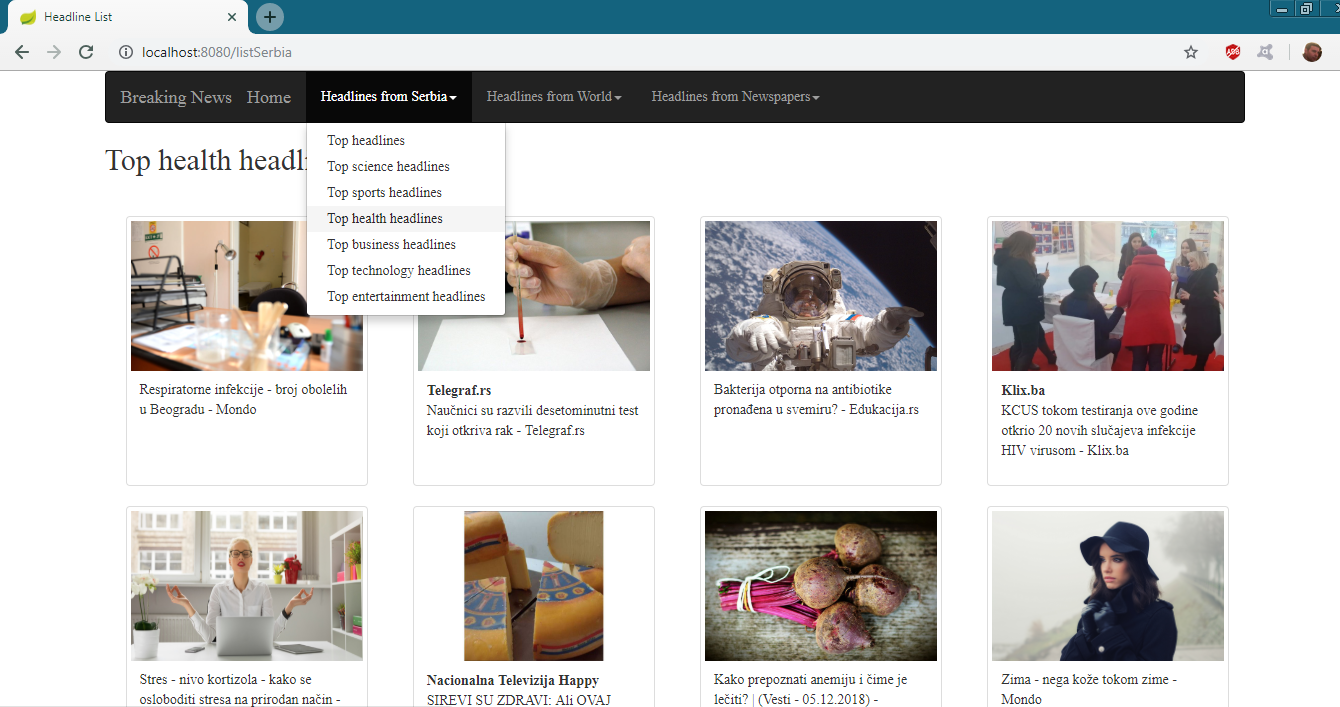
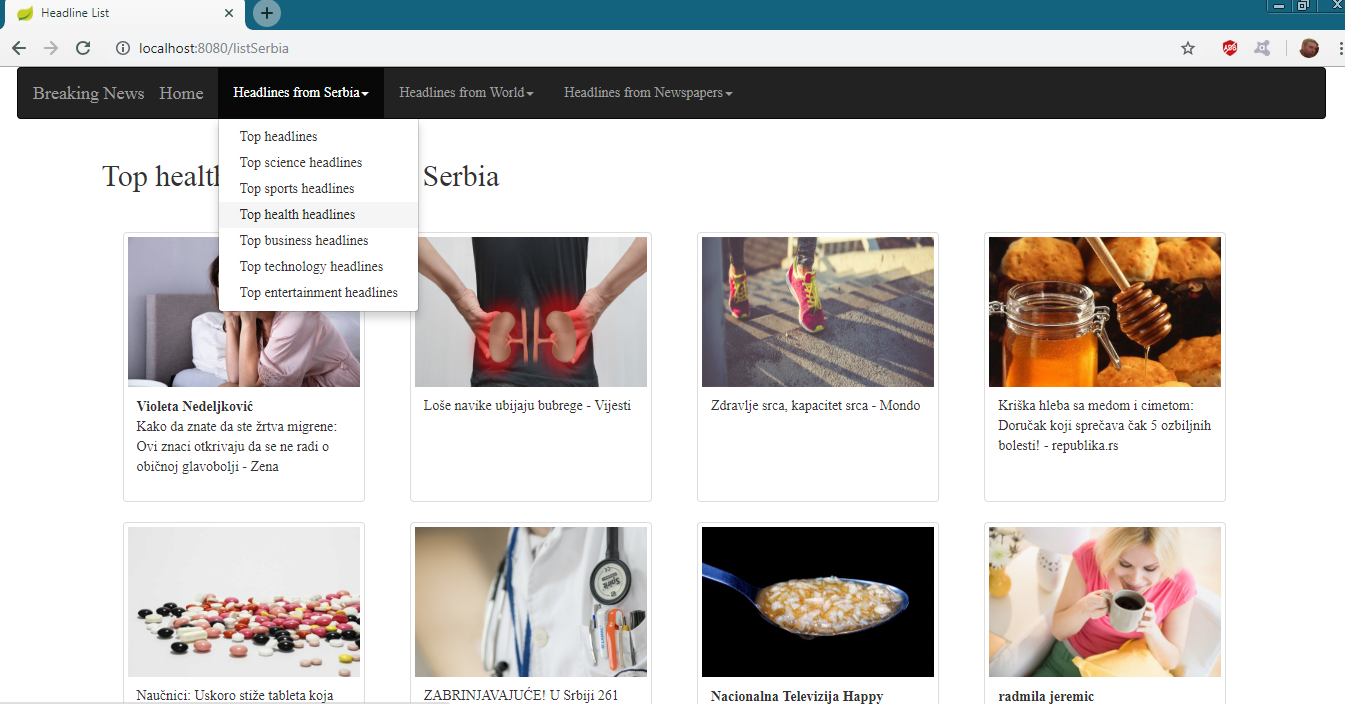
add service

diff --git a/src/main/resources/templates/headline_list.html b/src/main/resources/templates/headline_list.html
@@ -12,9 +12,9 @@
 </head>
 <body>
 
-<div class="container">
 
-    <nav class="navbar navbar-inverse">
+
+    <nav class="navbar navbar-inverse" style="margin-left: 20px; margin-right: 20px">
         <div class="container-fluid">
             <div class="navbar-header">
                 <a class="navbar-brand" style="font-family: 'sans-serif'" href="#">Breaking News</a>
@@ -66,7 +66,7 @@
             </ul>
         </div>
     </nav>
-
+    <div class="container">
     <div th:switch=true>
         <h2 style="margin-bottom: 40px; font-family: 'sans-serif'" th:case="${category1 != null}">Top <span th:text="${category1}"></span> headlines from Serbia</h2>
         <h2 style="margin-bottom: 40px; font-family: 'sans-serif'" th:case="${country1 != null}">Top headlines from <span th:text="${country1}"></span></h2>

diff --git a/src/main/resources/templates/headline.html b/src/main/resources/templates/headline.html
@@ -12,9 +12,9 @@
 </head>
 <body>
 
-<div class="container">
 
-    <nav class="navbar navbar-inverse">
+
+    <nav class="navbar navbar-inverse" style="margin-left: 20px; margin-right: 20px">
         <div class="container-fluid">
             <div class="navbar-header">
                 <a class="navbar-brand" style="font-family: 'sans-serif'" href="#">Breaking News</a>
@@ -67,7 +67,7 @@
         </div>
     </nav>
 
-
+    <div class="container">
     <h3 class="media-heading" style="margin-top: 30px; font-family: 'sans-serif'"
         th:text="${headline.title}"></h3>
 

diff --git a/src/main/resources/templates/home.html b/src/main/resources/templates/home.html
@@ -21,8 +21,8 @@
 
 </head>
 <body>
-<div class="container">
-<nav class="navbar navbar-inverse">
+
+<nav class="navbar navbar-inverse" style="margin-left: 20px; margin-right: 20px">
     <div class="container-fluid">
         <div class="navbar-header">
             <a class="navbar-brand" style="font-family: 'sans-serif'" href="#">Breaking News</a>
@@ -75,7 +75,7 @@
     </div>
 </nav>
 
-
+<div class="container">
 
     <div class="starter-template">
         <h3>Welcome to Home Page</h3>

diff --git a/src/main/java/com/zeljko/headlines2/controller/HeadlineController.java b/src/main/java/com/zeljko/headlines2/controller/HeadlineController.java
@@ -3,6 +3,7 @@ package com.zeljko.headlines2.controller;
 import com.zeljko.headlines2.entity.Headline;
 import com.zeljko.headlines2.entity.HeadlineList;
 import com.zeljko.headlines2.repository.HeadlineRepository;
+import com.zeljko.headlines2.service.HeadlineService;
 import org.springframework.beans.factory.annotation.Autowired;
 import org.springframework.stereotype.Controller;
 import org.springframework.ui.Model;
@@ -15,11 +16,11 @@ import java.util.List;
 @Controller
 public class HeadlineController {
 
-    private HeadlineRepository headlineRepository;
+    private HeadlineService headlineService;
 
     @Autowired
-    public HeadlineController(HeadlineRepository headlineRepository) {
-        this.headlineRepository = headlineRepository;
+    public HeadlineController(HeadlineService headlineService) {
+        this.headlineService = headlineService;
     }
 
     private final String BASE_URL = "https://newsapi.org/v2/top-headlines?";
@@ -42,7 +43,7 @@ public class HeadlineController {
         assert response != null;
         List<Headline> headlines = response.getArticles();
         for (Headline headline : headlines) {
-            headlineRepository.save(headline);
+            headlineService.saveHeadline(headline);
         }
         model.addAttribute("headlines", headlines);
         model.addAttribute("category1", category1);
@@ -108,7 +109,7 @@ public class HeadlineController {
         assert response != null;
         List<Headline> headlines = response.getArticles();
         for (Headline headline : headlines) {
-            headlineRepository.save(headline);
+            headlineService.saveHeadline(headline);
         }
         model.addAttribute("headlines", headlines);
         model.addAttribute("country1", country1);
@@ -174,7 +175,7 @@ public class HeadlineController {
         assert response != null;
         List<Headline> headlines = response.getArticles();
         for (Headline headline : headlines) {
-            headlineRepository.save(headline);
+            headlineService.saveHeadline(headline);
         }
         model.addAttribute("headlines", headlines);
         model.addAttribute("newspaper1", newspaper1);
@@ -234,7 +235,7 @@ public class HeadlineController {
     @GetMapping("/headline/{id}")
     public String headlineSerbia(@PathVariable("id") long headlineID, Model model) {
 
-        Headline headline = headlineRepository.findById(headlineID).get();
+        Headline headline = headlineService.getHeadlineById(headlineID);
 
         model.addAttribute("headline", headline);
         return "headline";
